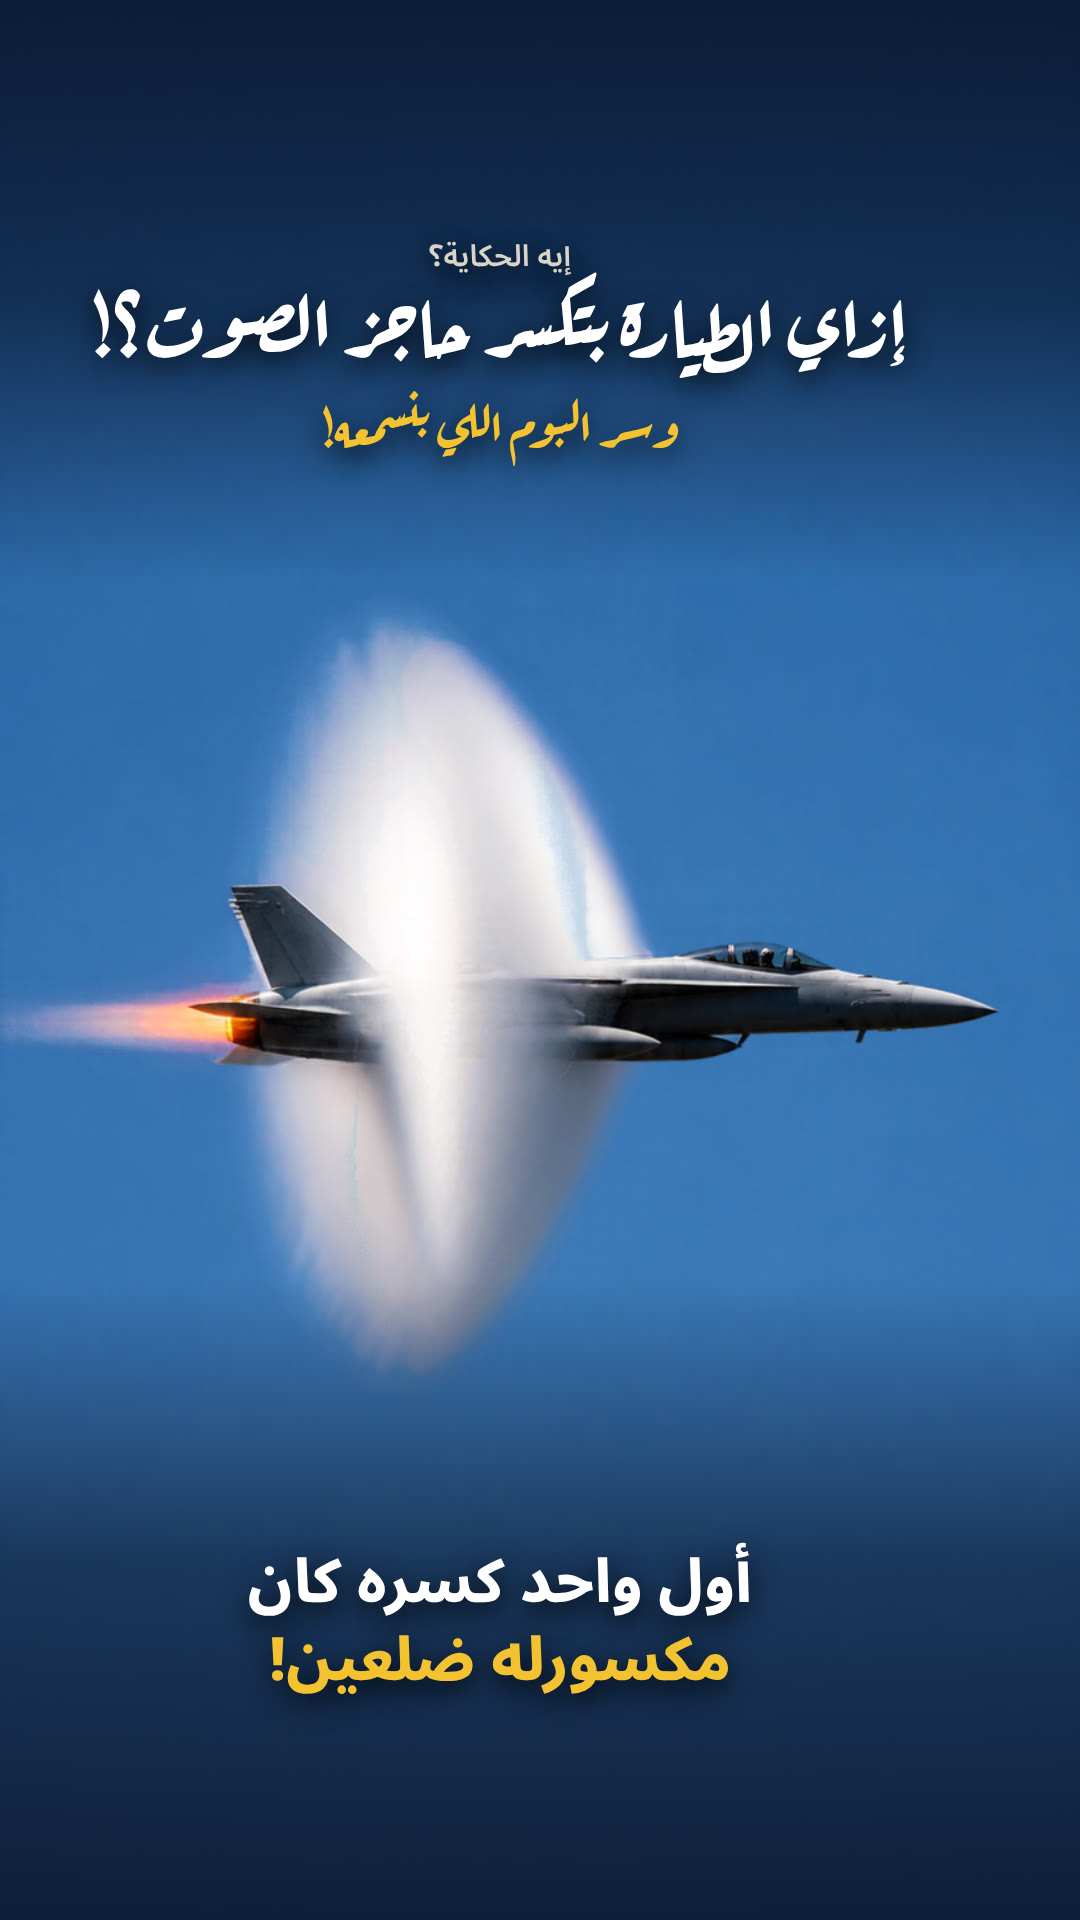
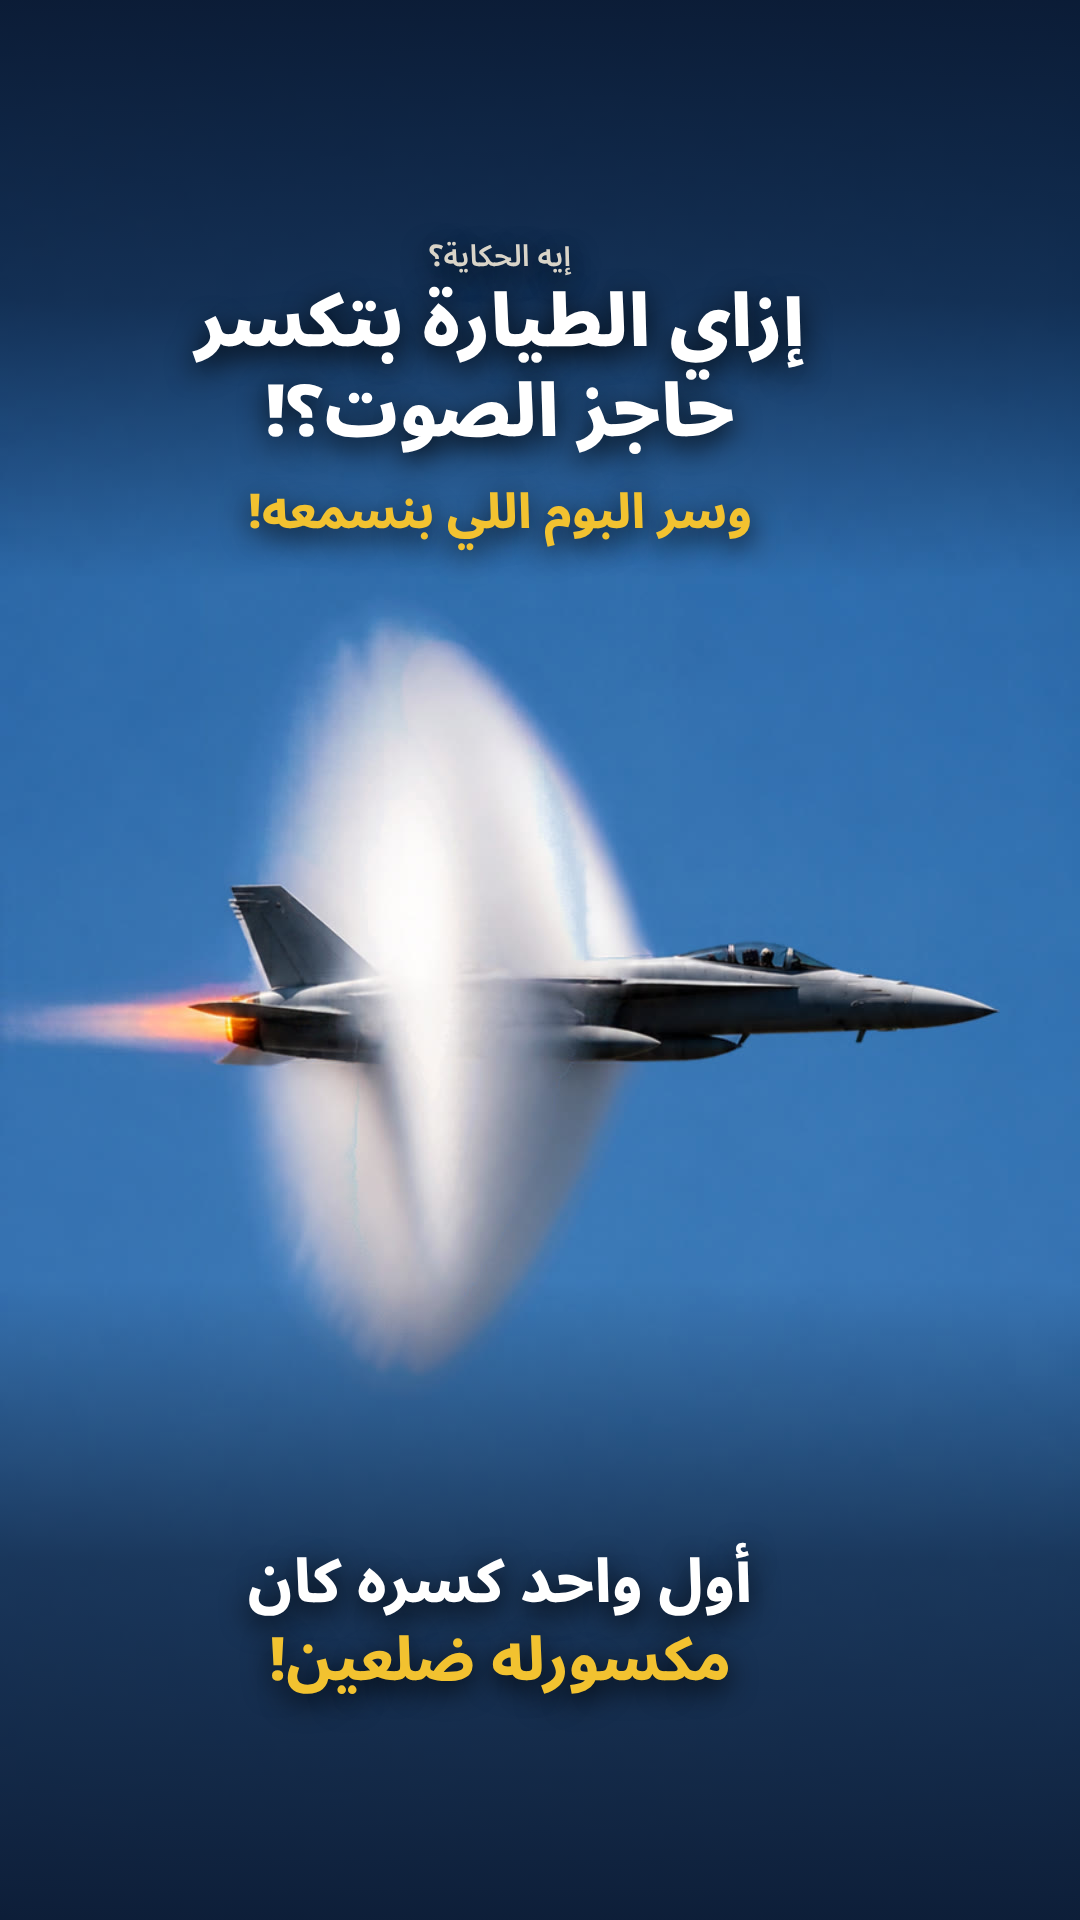
Sonic boom cover: top titles in Noto Sans Arabic like the bottom line
Claude-Session: https://claude.ai/code/session_012dTfAniKuQkAFVCkp63p6x

Changed region(s): [[0.0917, 0.125, 0.8556, 0.3125]]

diff --git a/brand/eh-elhekaya/cover-sonic-boom-photo.html b/brand/eh-elhekaya/cover-sonic-boom-photo.html
@@ -13,8 +13,8 @@
 <div class="cover">
   <div class="fade"></div>
   <p class="t" style="top:112px;font:600 15px 'Noto Sans Arabic';color:#d9d4c8">إيه الحكاية؟</p>
-  <p class="t" style="top:134px;font:700 42px/1.2 'Aref Ruqaa',serif;color:#fff">إزاي الطيارة بتكسر حاجز الصوت؟!</p>
-  <p class="t" style="top:196px;font:700 26px/1.2 'Aref Ruqaa',serif;color:#f2c230">وسر البوم اللي بنسمعه!</p>
+  <p class="t" style="top:140px;font:900 36px/1.25 'Noto Sans Arabic';color:#fff">إزاي الطيارة بتكسر<br>حاجز الصوت؟!</p>
+  <p class="t" style="top:242px;font:800 24px/1.25 'Noto Sans Arabic';color:#f2c230">وسر البوم اللي بنسمعه!</p>
   <p class="t" style="top:772px;font:800 30px/1.3 'Noto Sans Arabic';color:#fff">أول واحد كسره كان<br><span style="color:#f2c230">مكسورله ضلعين!</span></p>
 </div>
 </body></html>
